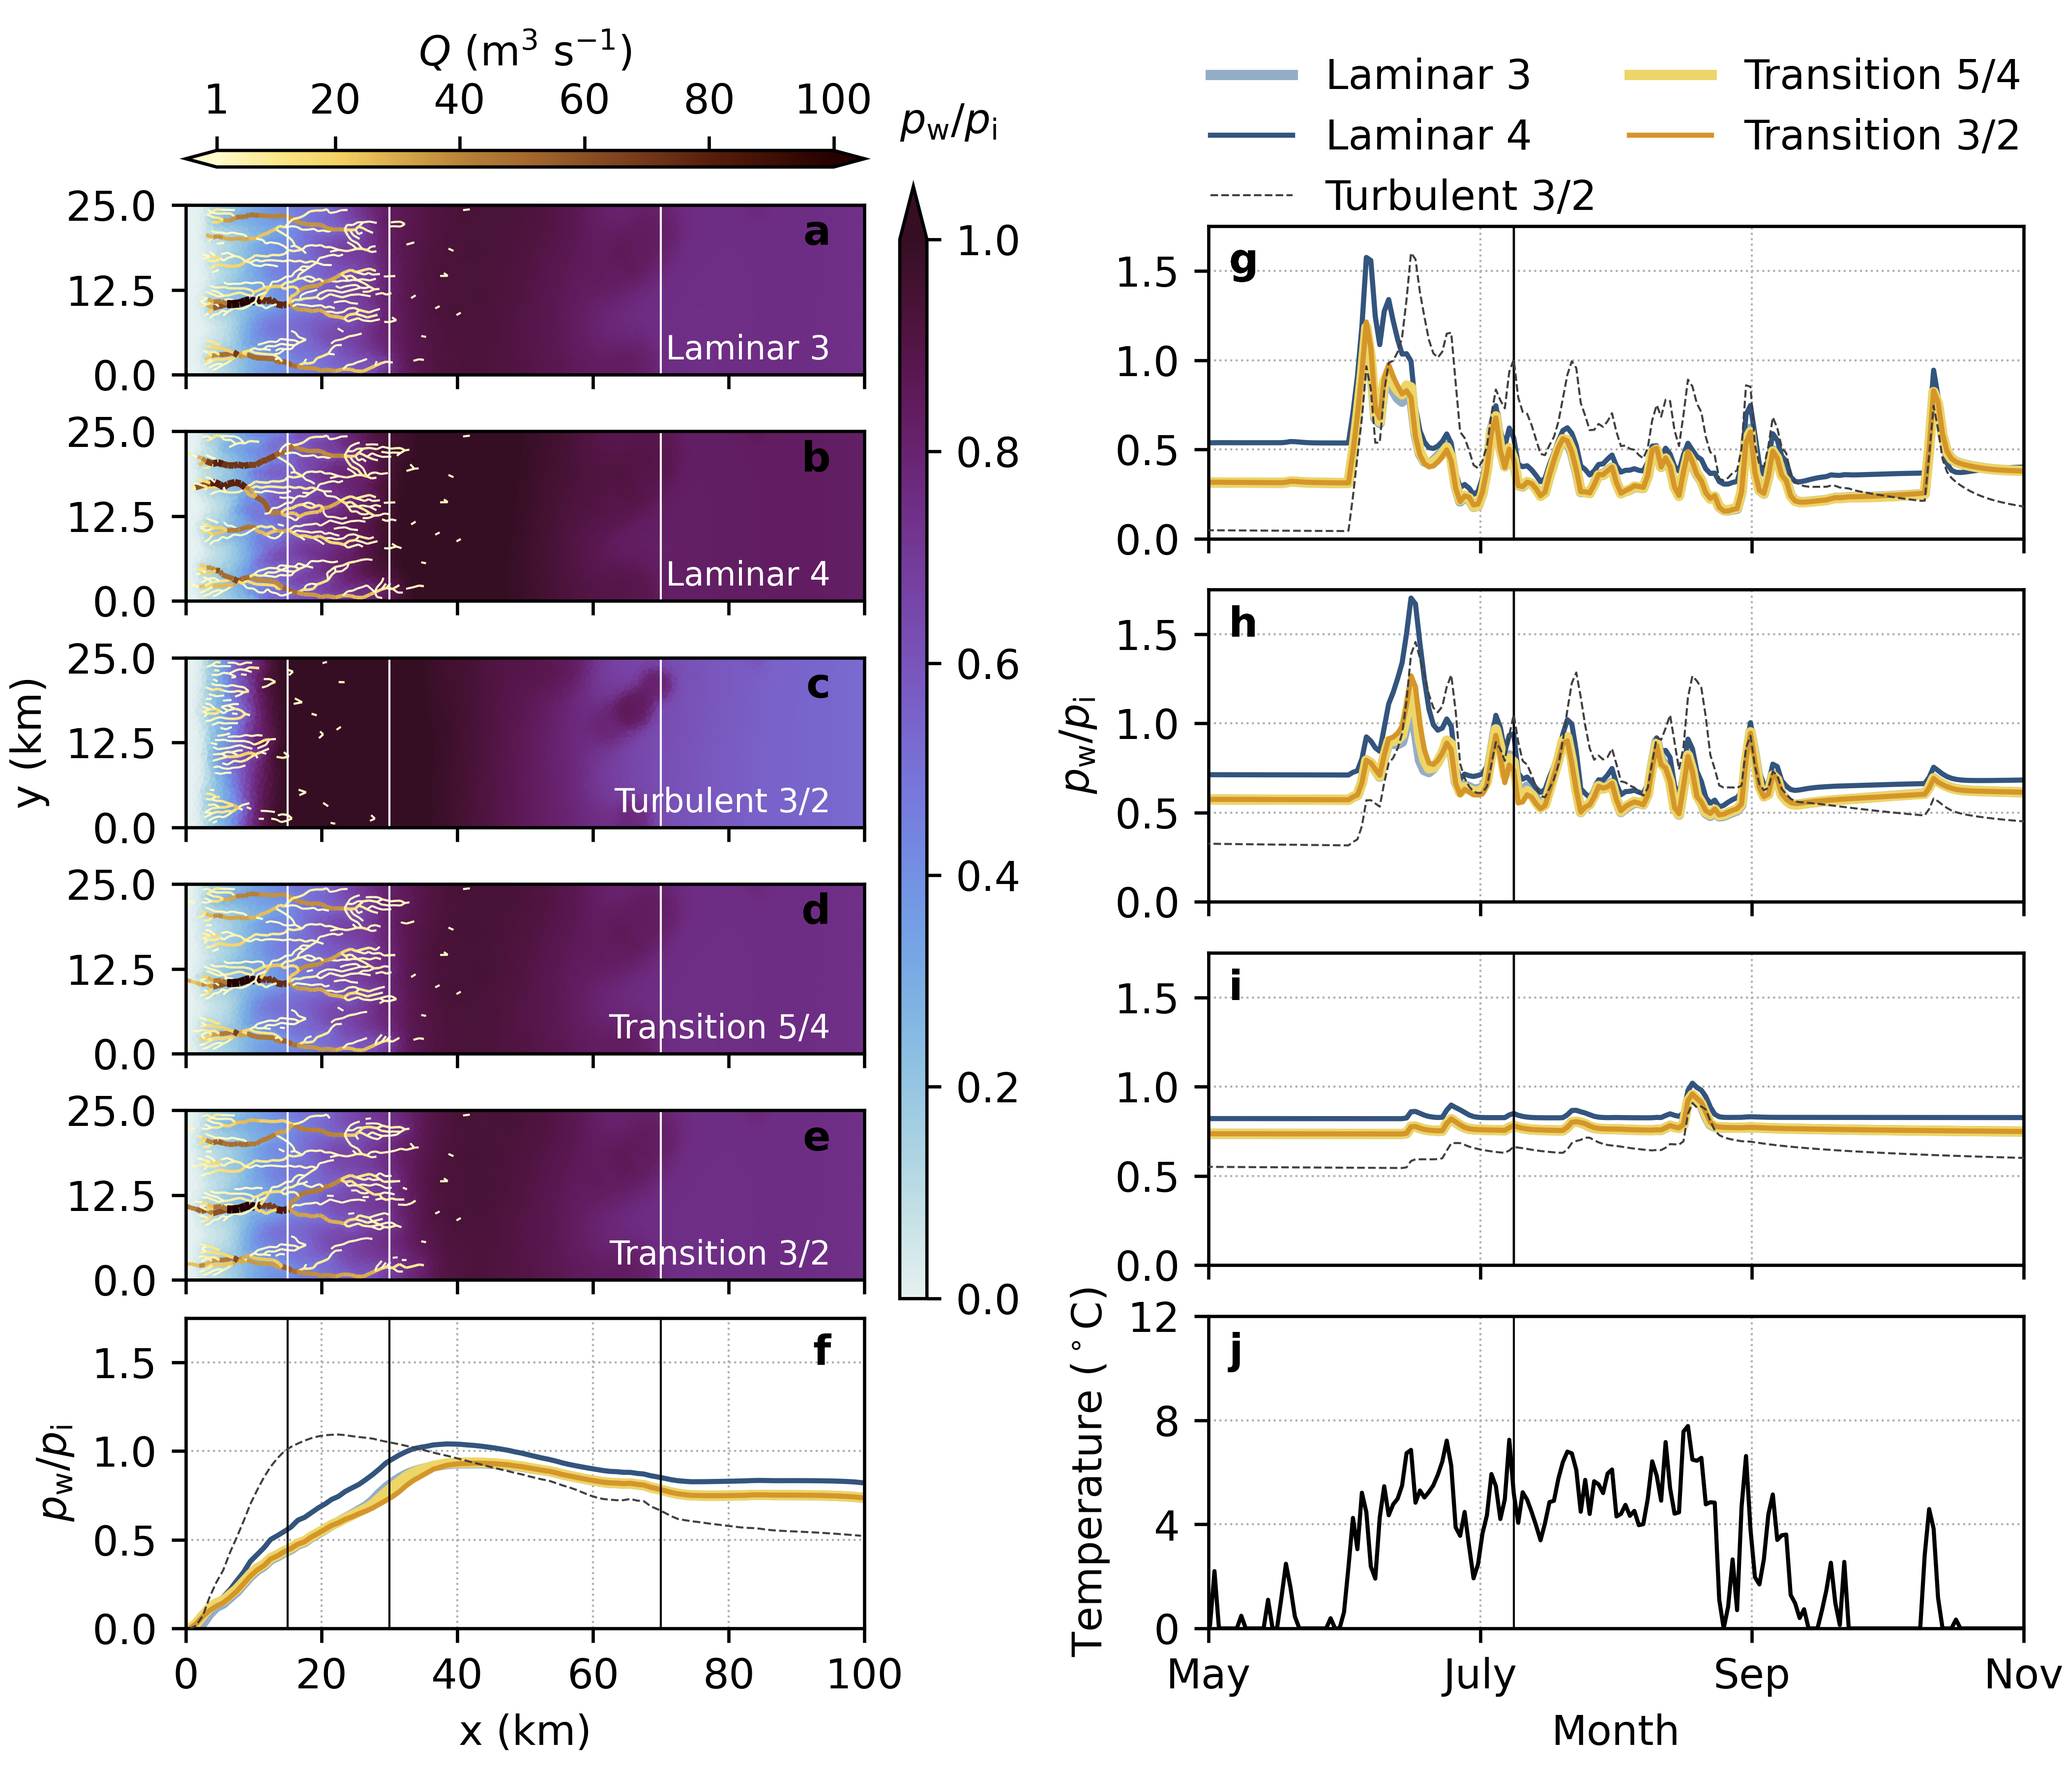
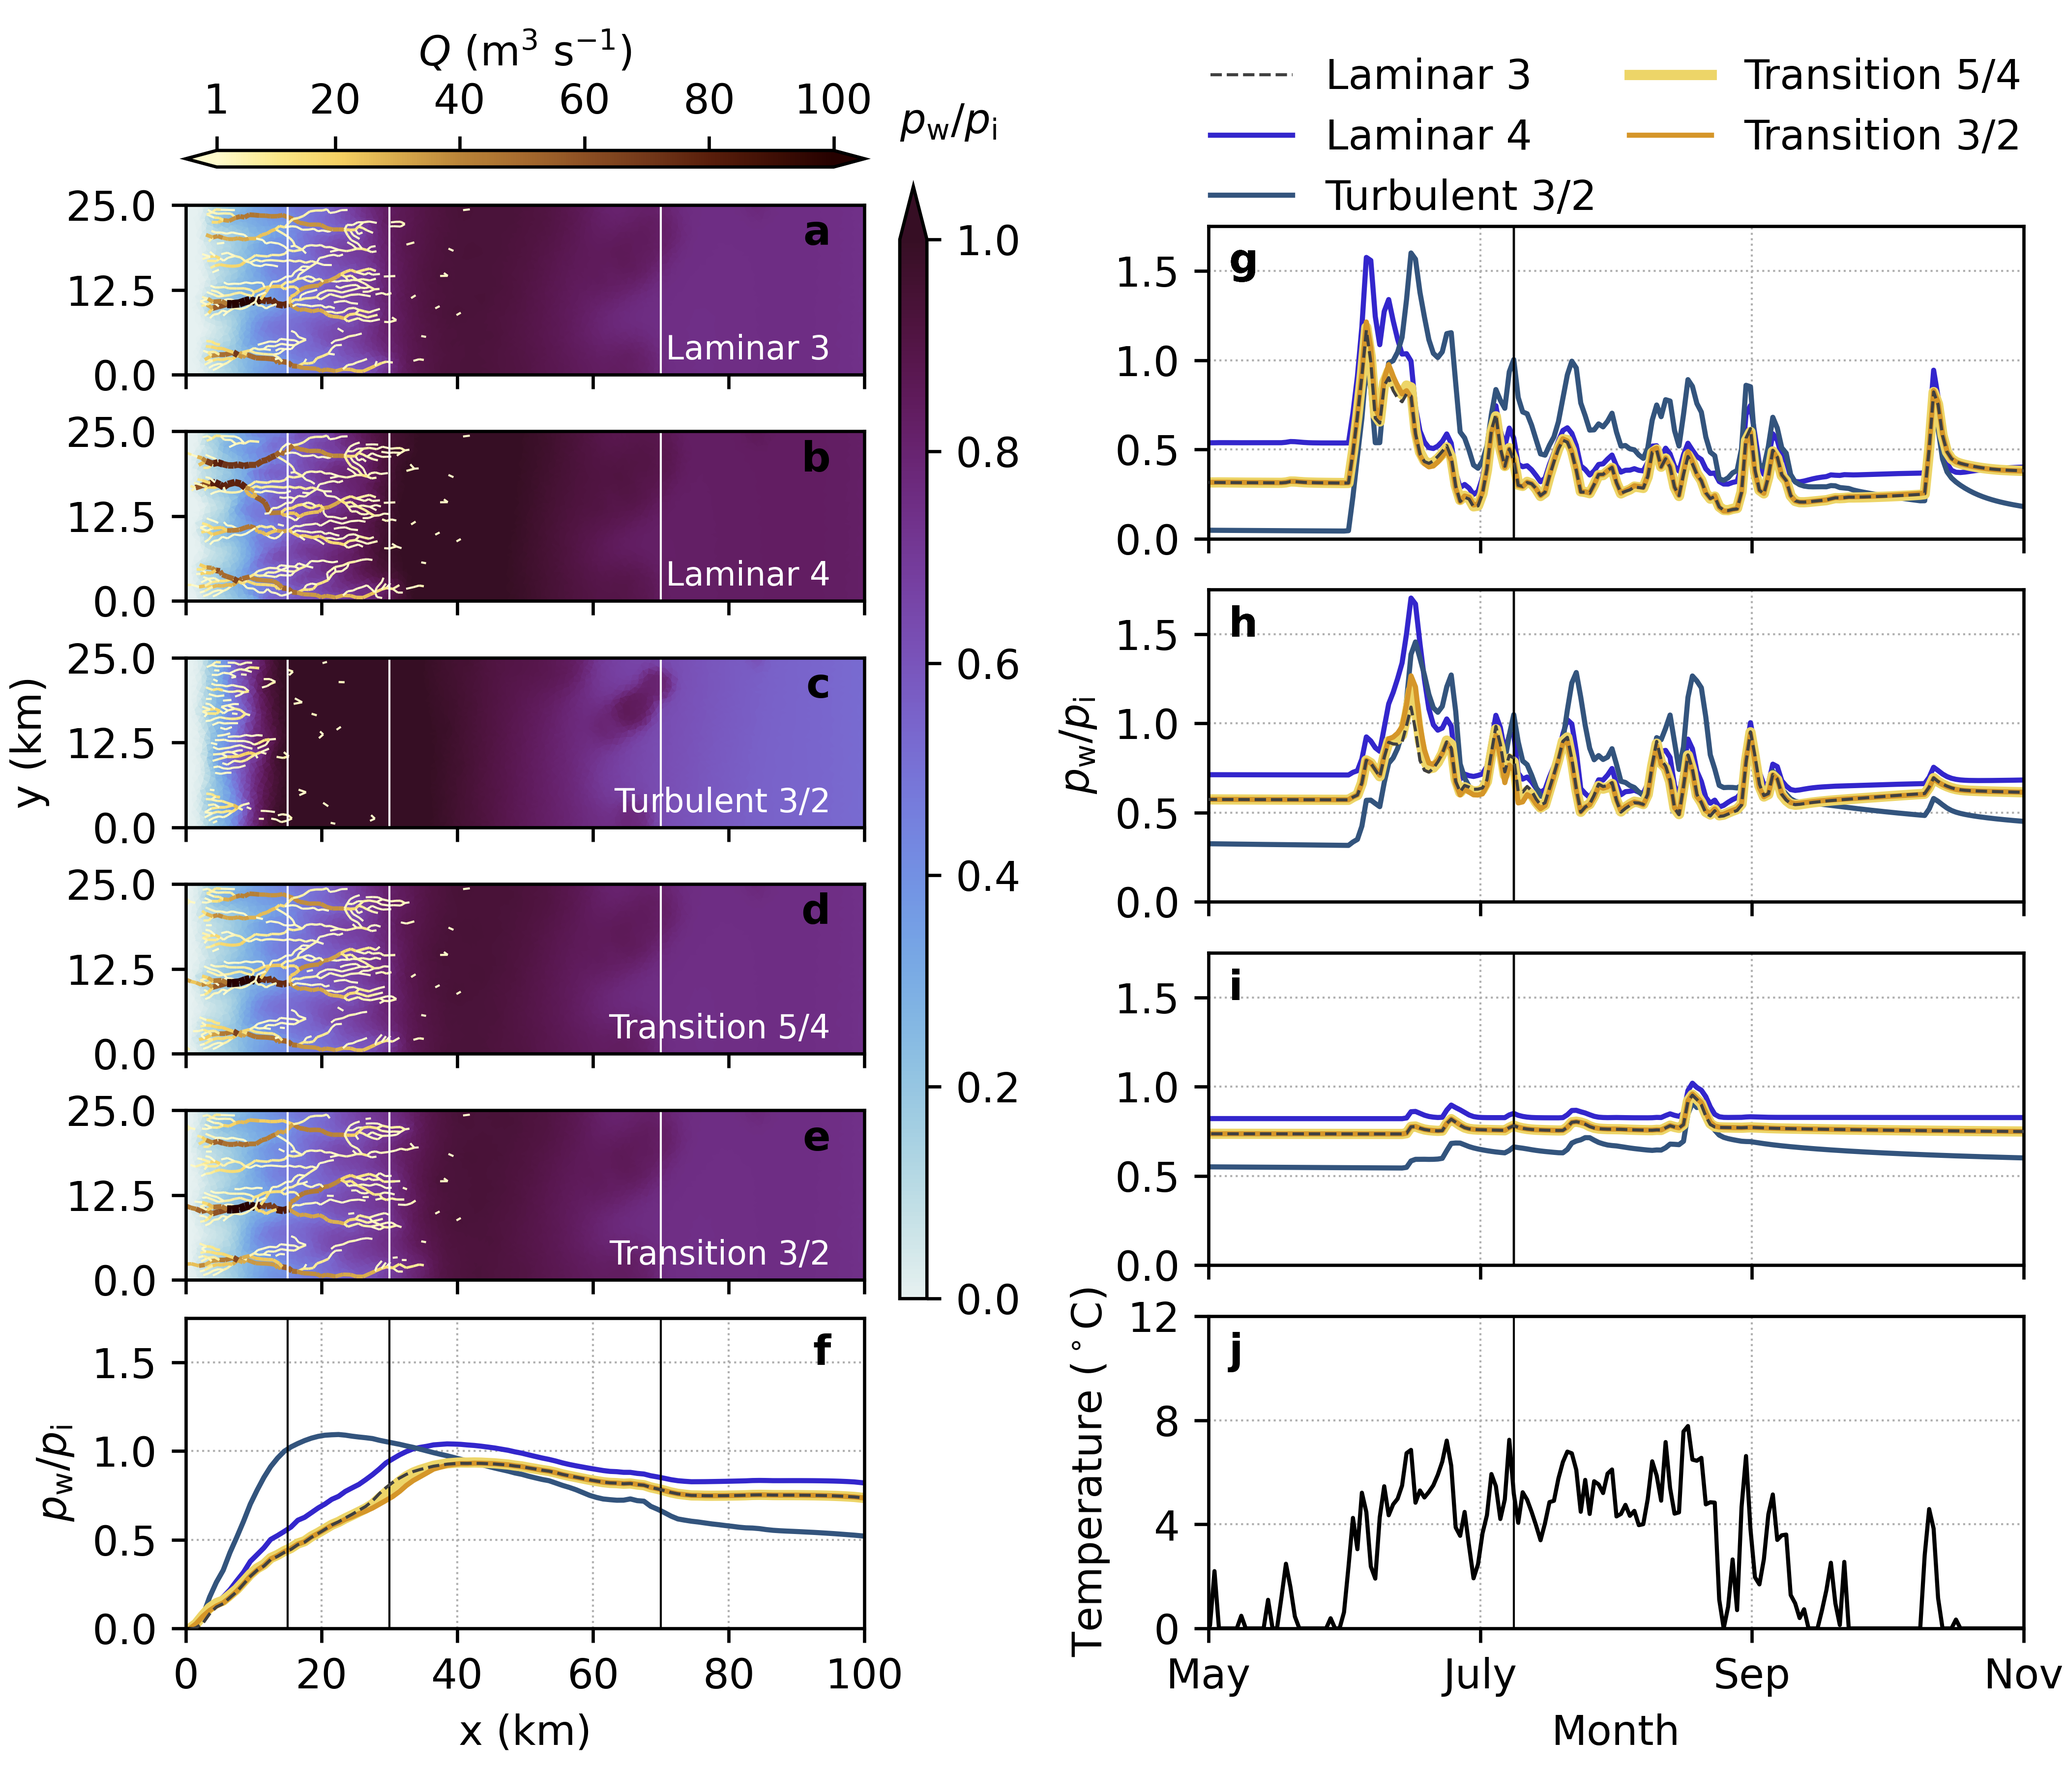
Later Re fig

diff --git a/analysis/make_pressure_figs.py b/analysis/make_pressure_figs.py
@@ -49,15 +49,17 @@ figname = '01_pressure_seasonal_alpha.png'
 labels = ['Laminar 3', 'Laminar 4', 'Turbulent 3/2', 'Transition 5/4', 'Transition 3/2']
 colors = np.zeros((5, 4))
 colors[0] = defaults.colors[2]
-colors[1] = np.array([0.51, 0.21, 0.71])
+# colors[1] = np.array([0.51, 0.21, 0.71, 1])
+colors[1] = np.array([0.2, 0.15, 0.8, 1])
 colors[2] = defaults.colors[1]
 colors[3:] = defaults.colors[3:]
-lws = [1, 1, 1, 2, 1]
-lss = ['solid', 'solid', 'solid', 'solid', 'solid']
+lws = [0.75, 1.25, 1.25, 2.5, 1.25]
+zorders = [5, 2, 2, 2, 2]
+lss = ['dashed', 'solid', 'solid', 'solid', 'solid']
 fig_01 = plot_pressure_maps_timeseries(fnames, figname, Qmin=1, Qmax=100, melt_forcing='KAN',
      t_ticklabels=t_ticklabels, t_xlabel=t_xlabel, t_ticks=t_ticks, t_lim=t_lim,
      ff_ylim=[0, 1.75], ff_yticks=[0, 0.5, 1, 1.5], labels=labels,
-     lws=lws, linestyles=lss, colors=colors)
+     lws=lws, linestyles=lss, colors=colors, zorders=zorders)
 
 plt.show()
 

diff --git a/analysis/make_Re.py b/analysis/make_Re.py
@@ -43,6 +43,13 @@ fnames = [pattern % caseid for caseid in cases]
 figname = '01_Re_seasonal.png'
 fig_01 = plot_Re(fnames, figname, Qmin=1, Qmax=100, Re_ylim=(0, 4e3), tslice=365+174)
 
+## Case 01: Flat topo, KAN_L forcing
+cases = [1, 2, 3, 4, 5]
+pattern = '../glads/01_kan_forcing/RUN/output_%03d_seasonal.nc'
+fnames = [pattern % caseid for caseid in cases]
+figname = '01_Re_seasonal_1Sept.png'
+fig_01 = plot_Re(fnames, figname, Qmin=1, Qmax=100, Re_ylim=(0, 4e3), tslice=365+244)
+
 ## Case 01a: KAN increased forcing
 cases = [1, 2, 3, 4, 5]
 pattern = '../glads/01a_kan_adj_forcing/RUN/output_%03d_seasonal.nc'
